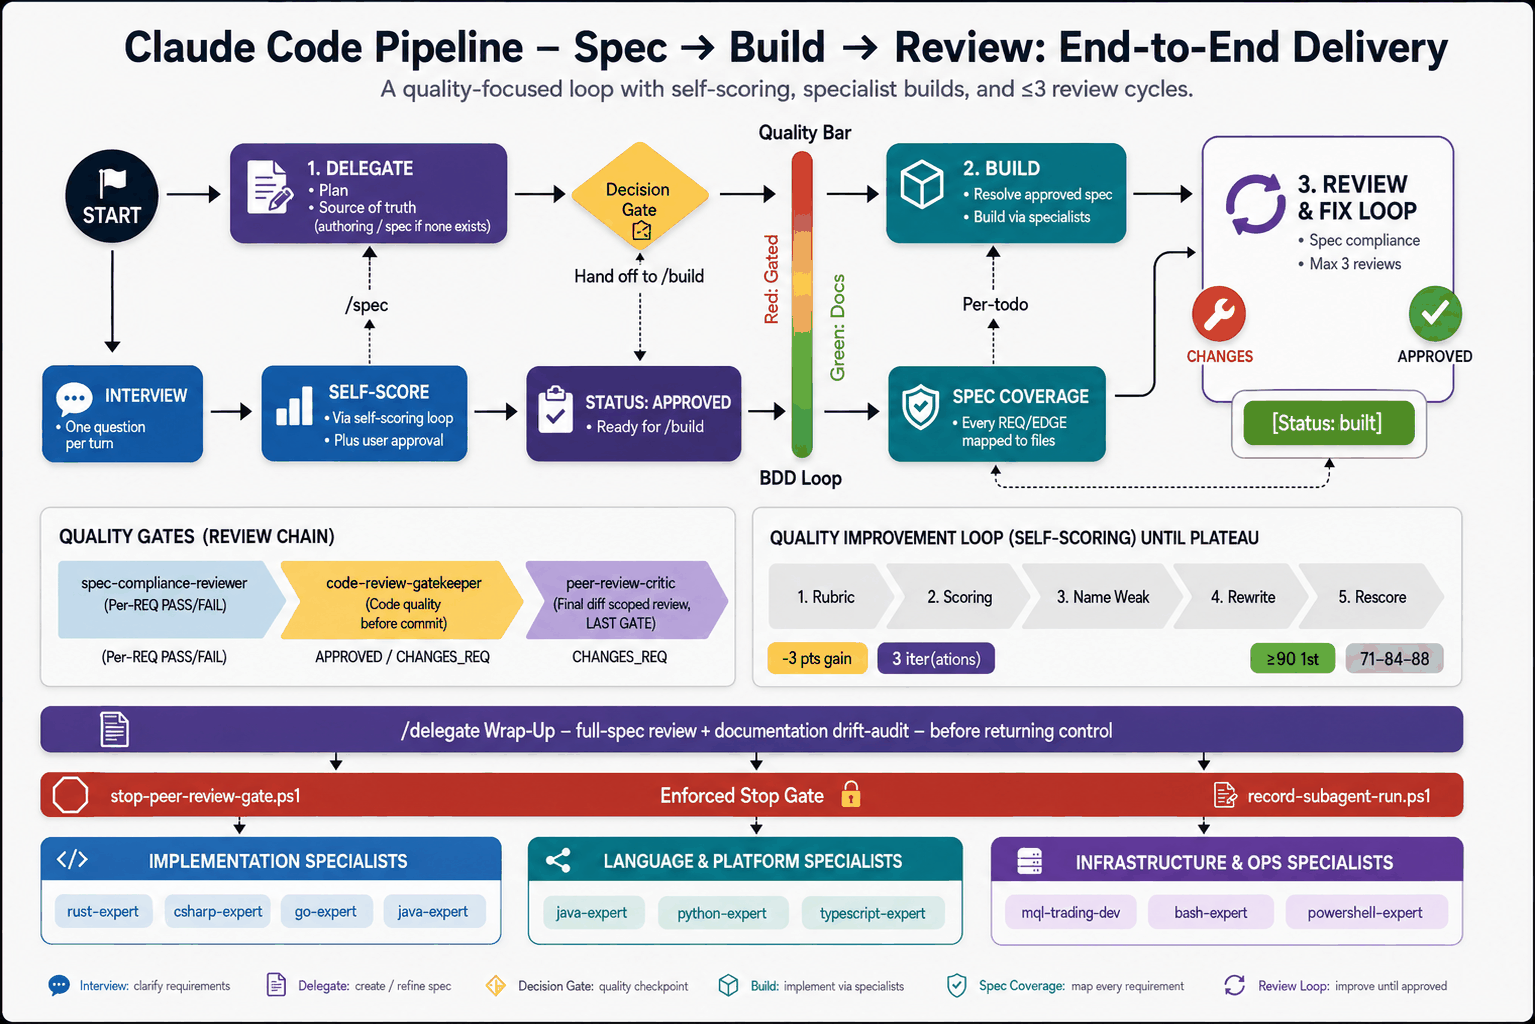
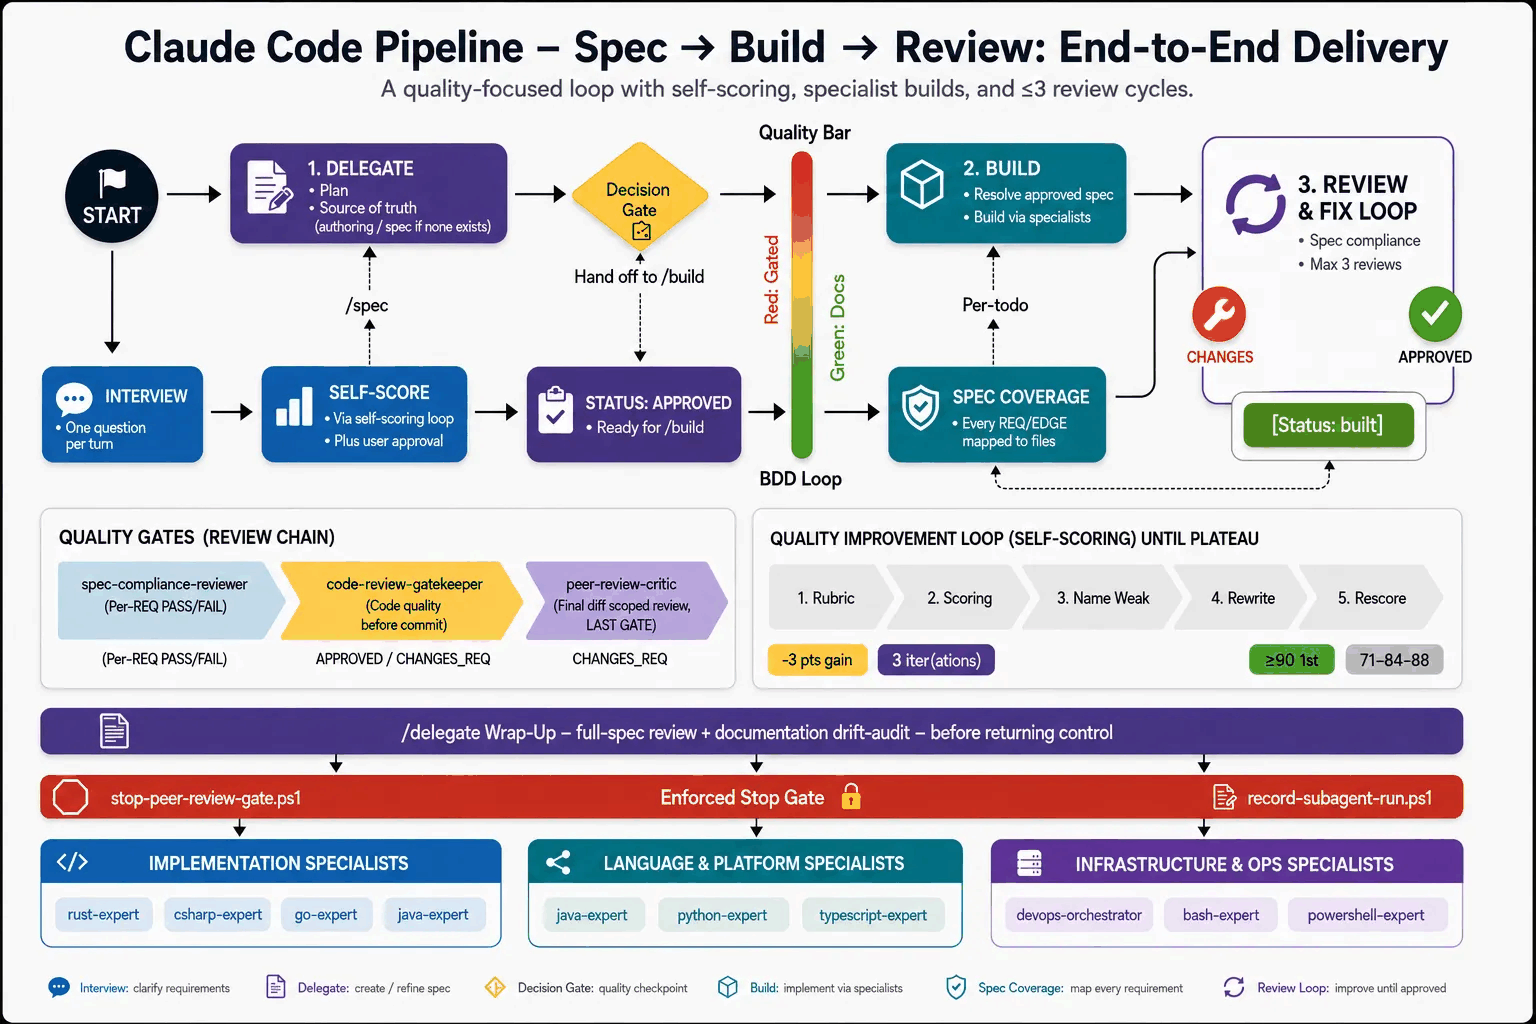
docs: final pipeline poster — single image, SVG retired
Replaces the poster with the user-approved final art (devops-orchestrator
now in the Infrastructure & Ops roster), optimized 1,122 KB -> 295 KB
(256-color adaptive palette, 1536x1024). The SVG diagram is deleted per
user direction — the poster PNG is now the single canonical infographic —
and the README "See also" SVG link is removed accordingly.

diff --git a/README.md b/README.md
@@ -148,8 +148,6 @@ How the commands, self-scoring loop, review chain, and Stop gate fit together:
 
 ![The /spec → /build → /delegate pipeline](docs/pipeline-infographic.png)
 
-<sub>See also: the [SVG pipeline diagram](docs/pipeline-infographic.svg)</sub>
-
 ---
 
 ## Agents